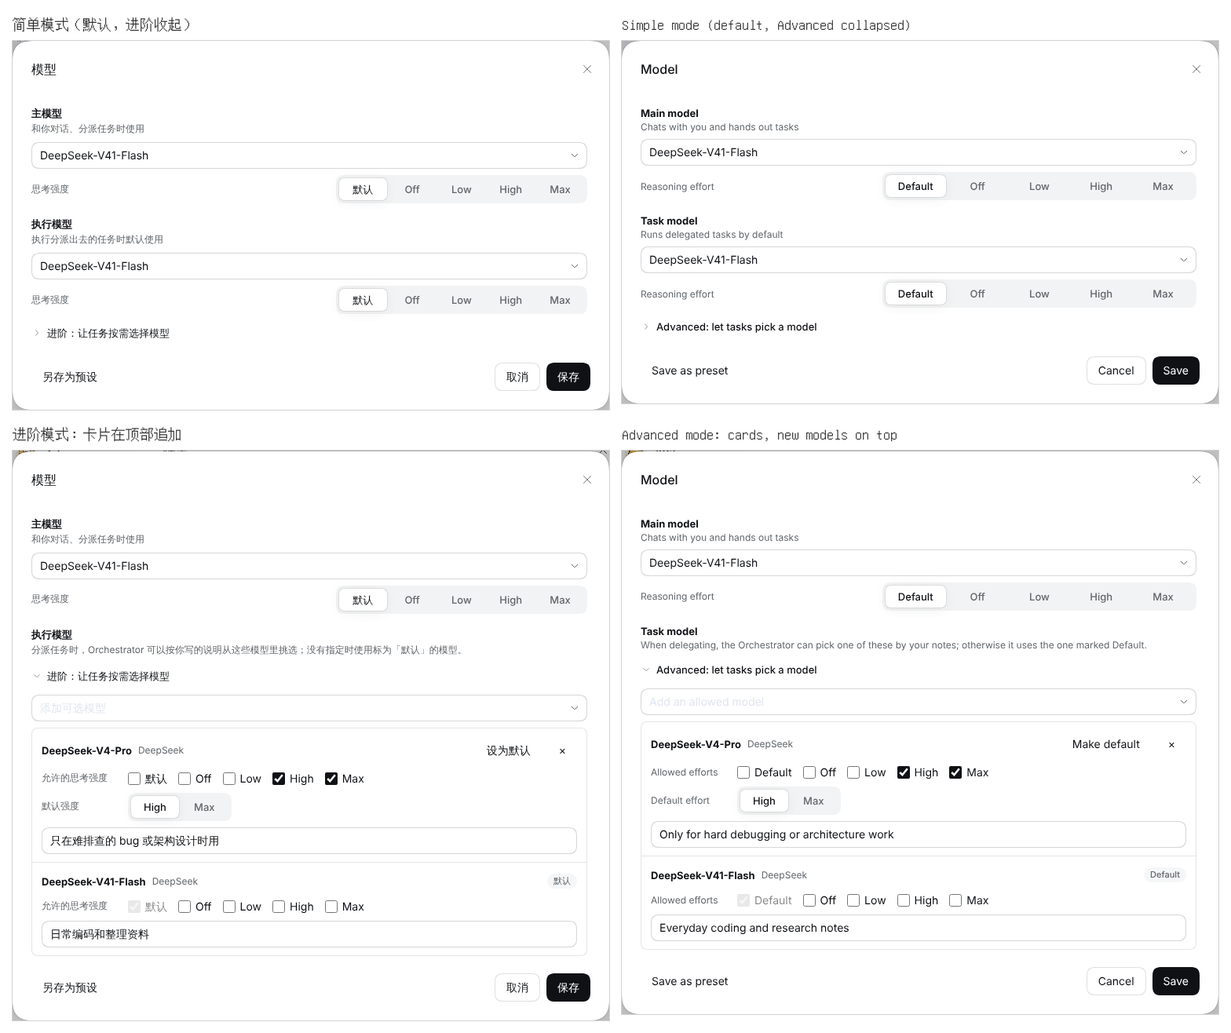
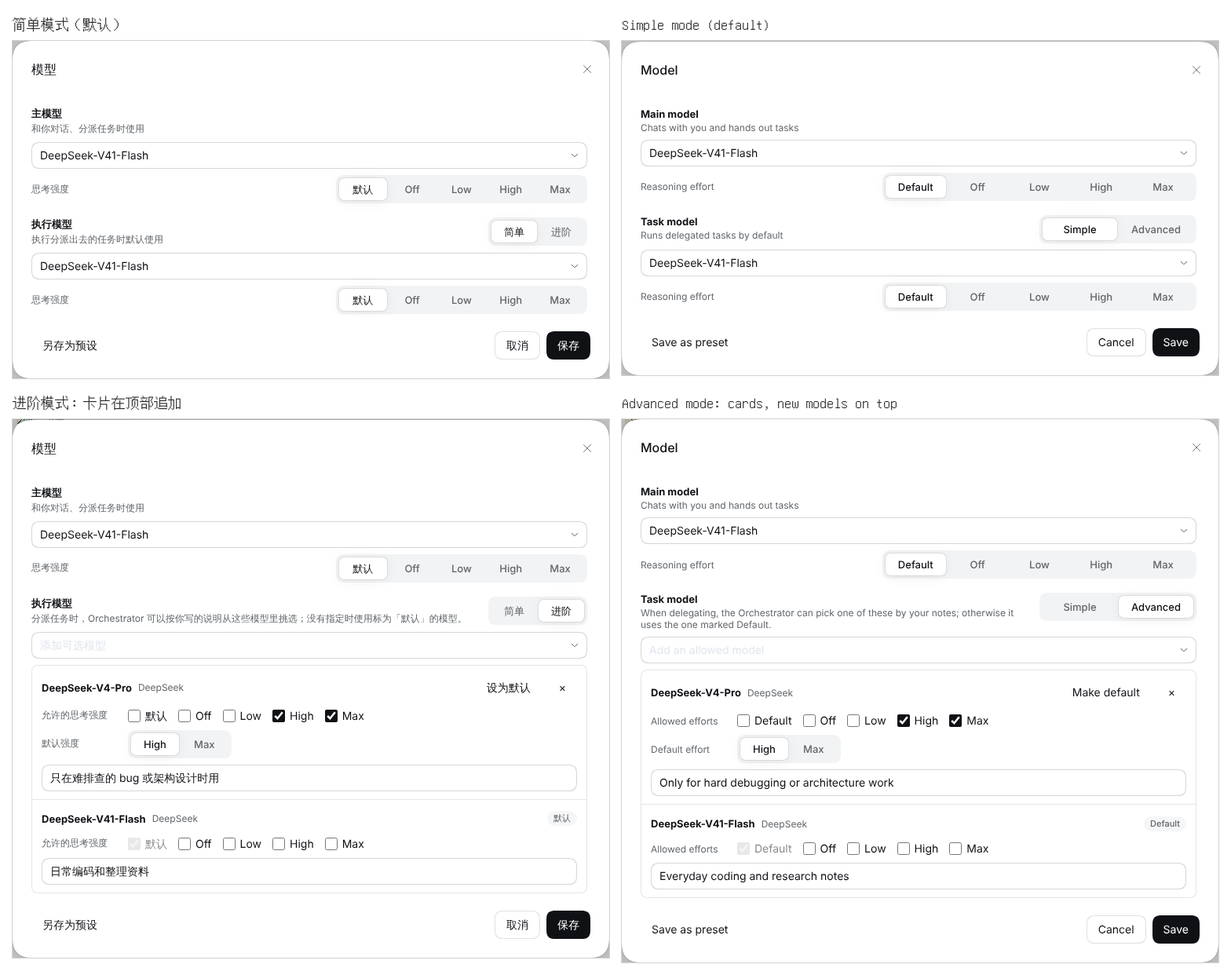
Switch task model modes with an explicit Simple/Advanced control
A collapsible header hid the mode change. A segmented Simple/Advanced
switch beside the Task model heading now makes it explicit, and the
content that replaces the other mode fades in.

Claude-Session: https://claude.ai/code/session_0152zfVCAc6MNB8R8xVq9b76

diff --git a/packages/client/src/client/model-preset-profile.tsx b/packages/client/src/client/model-preset-profile.tsx
@@ -2,7 +2,6 @@ import { useRef, useState, type ReactElement } from 'react';
 import {
   Button,
   Checkbox,
-  IconChevronDownOutlineRegular,
   Input,
   SegmentedControl,
   Tag,
@@ -176,6 +175,7 @@ export function ModelPresetProfile({
   const [busy, setBusy] = useState(false);
   const [error, setError] = useState<string>();
   const [editorOpen, setEditorOpen] = useState(false);
+  const [modeSwitched, setModeSwitched] = useState(false);
 
   const acceptPlan = (
     current: ModelPlanView | undefined,
@@ -268,6 +268,7 @@ export function ModelPresetProfile({
     setDraft(undefined);
     setPresetName(undefined);
     setError(undefined);
+    setModeSwitched(false);
     setEditorOpen(true);
     void load();
   };
@@ -507,13 +508,44 @@ export function ModelPresetProfile({
     );
   };
 
+  const modeControl =
+    draft === undefined ? null : (
+      <SegmentedControl
+        id="bh-model-task-mode"
+        value={draft.advanced ? 'advanced' : 'simple'}
+        options={[
+          { value: 'simple', label: t('modelPreset.modeSimple') },
+          { value: 'advanced', label: t('modelPreset.modeAdvanced') },
+        ]}
+        onChange={(mode) => {
+          setModeSwitched(true);
+          setDraft((current) =>
+            current === undefined || current.advanced === (mode === 'advanced')
+              ? current
+              : current.advanced
+                ? { ...withAdvanced(current, false), presetId: '' }
+                : withAdvanced(current, true),
+          );
+        }}
+        label={t('modelPreset.mode')}
+        disabled={busy}
+      />
+    );
+
   const taskEditor =
     draft === undefined || catalog === undefined ? null : (
-      <section className="bh-model-task" aria-label={t('modelPreset.assignment')}>
+      <section
+        className="bh-model-task"
+        aria-label={t('modelPreset.assignment')}
+        data-mode-switched={modeSwitched || undefined}
+      >
         {draft.advanced ? (
-          <div className="bh-model-picker-heading">
-            <strong>{t('modelPreset.assignment')}</strong>
-            <span>{t('modelPreset.allowedHint')}</span>
+          <div className="bh-model-picker-heading-row">
+            <div className="bh-model-picker-heading">
+              <strong>{t('modelPreset.assignment')}</strong>
+              <span>{t('modelPreset.allowedHint')}</span>
+            </div>
+            {modeControl}
           </div>
         ) : (
           <ModelPicker
@@ -532,32 +564,10 @@ export function ModelPresetProfile({
               })
             }
             disabled={busy}
+            action={modeControl}
             t={t}
           />
         )}
-        <button
-          type="button"
-          className="bh-channel-sidebar-entry-head bh-model-mode-toggle"
-          aria-expanded={draft.advanced}
-          disabled={busy}
-          onClick={() =>
-            setDraft((current) =>
-              current === undefined
-                ? current
-                : current.advanced
-                  ? { ...withAdvanced(current, false), presetId: '' }
-                  : withAdvanced(current, true),
-            )
-          }
-        >
-          <span
-            className={`bh-channel-sidebar-entry-chevron${draft.advanced ? '' : ' bh-chevron-collapsed'}`}
-            aria-hidden="true"
-          >
-            <IconChevronDownOutlineRegular size={14} />
-          </span>
-          <span className="bh-channel-sidebar-entry-label">{t('modelPreset.advanced')}</span>
-        </button>
         {draft.advanced && (
           <div className="bh-model-allowed">
             <Combobox

diff --git a/packages/client/test/model-preset-profile.test.ts b/packages/client/test/model-preset-profile.test.ts
@@ -456,7 +456,7 @@ describe('Model entry', () => {
       applyModelPreset,
     } as unknown as BridgeActions);
     await openEditor(host);
-    await act(async () => button('Advanced: let tasks pick a model').click());
+    await act(async () => button('Advanced').click());
     await choose('Add an allowed model', 'kimi', 'Kimi K2');
     expect(document.querySelector('.bh-model-cards')?.textContent).toContain('Kimi K2');
     await act(async () => button('Save as preset').click());
@@ -497,11 +497,14 @@ describe('Model entry', () => {
       setModelPlan,
     } as unknown as BridgeActions);
     await openEditor(host);
-    const toggle = button('Advanced: let tasks pick a model');
-    expect(toggle.getAttribute('aria-expanded')).toBe('false');
+    const mode = (name: string) =>
+      document.querySelector<HTMLButtonElement>(
+        `[aria-label="Task model mode"] [role="tab"]:${name === 'Simple' ? 'first' : 'last'}-child`,
+      )!;
+    expect(mode('Simple').getAttribute('aria-selected')).toBe('true');
     expect(combobox('Task model').value).toBe('Pro');
-    await act(async () => toggle.click());
-    expect(toggle.getAttribute('aria-expanded')).toBe('true');
+    await act(async () => mode('Advanced').click());
+    expect(mode('Advanced').getAttribute('aria-selected')).toBe('true');
     expect(document.querySelector('input[role="combobox"][aria-label="Task model"]')).toBeNull();
 
     await choose('Add an allowed model', 'kimi', 'Kimi K2');
@@ -601,10 +604,9 @@ describe('Model entry', () => {
       setModelPlan,
     } as unknown as BridgeActions);
     await openEditor(host);
-    const toggle = button('Advanced: let tasks pick a model');
-    expect(toggle.getAttribute('aria-expanded')).toBe('true');
+    expect(button('Advanced').getAttribute('aria-selected')).toBe('true');
     expect(document.querySelectorAll('li.bh-model-card')).toHaveLength(2);
-    await act(async () => toggle.click());
+    await act(async () => button('Simple').click());
     expect(document.querySelector('li.bh-model-card')).toBeNull();
     expect(combobox('Task model').value).toBe('Flash');
     await act(async () => button('Save').click());

diff --git a/packages/client/src/client/model-picker.tsx b/packages/client/src/client/model-picker.tsx
@@ -1,4 +1,4 @@
-import { useId, type ReactElement } from 'react';
+import { useId, type ReactElement, type ReactNode } from 'react';
 import { SegmentedControl } from '@deepseek-ai/dsh-client-ui-primitives';
 import type { ModelCatalogEntryView } from './bridge.js';
 import { Combobox, type ComboboxOption } from './combobox.js';
@@ -17,6 +17,7 @@ export function ModelPicker({
   options,
   onChange,
   disabled,
+  action,
   t,
 }: {
   title: string;
@@ -26,6 +27,7 @@ export function ModelPicker({
   options: readonly ComboboxOption[];
   onChange: (choice: ModelChoice) => void;
   disabled: boolean;
+  action?: ReactNode;
   t: BotHarnessTranslate;
 }): ReactElement {
   const id = useId();
@@ -34,12 +36,22 @@ export function ModelPicker({
     { value: '', label: t('modelPreset.providerDefault') },
     ...(entry?.efforts ?? []).map((effort) => ({ value: effort.id, label: effort.name })),
   ];
+  const heading = (
+    <div className="bh-model-picker-heading">
+      <strong>{title}</strong>
+      <span>{hint}</span>
+    </div>
+  );
   return (
     <div className="bh-model-picker">
-      <div className="bh-model-picker-heading">
-        <strong>{title}</strong>
-        <span>{hint}</span>
-      </div>
+      {action === undefined ? (
+        heading
+      ) : (
+        <div className="bh-model-picker-heading-row">
+          {heading}
+          {action}
+        </div>
+      )}
       <Combobox
         value={entry === undefined ? '' : choice.key}
         options={options}

diff --git a/packages/client/src/client/locale.ts b/packages/client/src/client/locale.ts
@@ -1727,7 +1727,9 @@ export const zh = {
   'modelPreset.allowedTitle': '可选的执行模型',
   'modelPreset.allowedHint':
     '分派任务时，Orchestrator 可以按你写的说明从这些模型里挑选；没有指定时使用标为「默认」的模型。',
-  'modelPreset.advanced': '进阶：让任务按需选择模型',
+  'modelPreset.mode': '执行模型模式',
+  'modelPreset.modeSimple': '简单',
+  'modelPreset.modeAdvanced': '进阶',
   'modelPreset.defaultModel': '默认',
   'modelPreset.makeDefault': '设为默认',
   'modelPreset.defaultEffort': '默认强度',
@@ -4922,7 +4924,9 @@ My relationship with you, established lore and topics to avoid: [fill in].
   'modelPreset.allowedTitle': 'Allowed task models',
   'modelPreset.allowedHint':
     'When delegating, the Orchestrator can pick one of these by your notes; otherwise it uses the one marked Default.',
-  'modelPreset.advanced': 'Advanced: let tasks pick a model',
+  'modelPreset.mode': 'Task model mode',
+  'modelPreset.modeSimple': 'Simple',
+  'modelPreset.modeAdvanced': 'Advanced',
   'modelPreset.defaultModel': 'Default',
   'modelPreset.makeDefault': 'Make default',
   'modelPreset.defaultEffort': 'Default effort',

diff --git a/packages/client/src/client/styles.ts b/packages/client/src/client/styles.ts
@@ -5087,16 +5087,33 @@ html[data-botharness-motion='reduce'] .bh-composer-footer {
   gap: 8px;
   min-width: 0;
 }
-.bh-model-mode-toggle {
+.bh-model-picker-heading-row {
+  display: flex;
+  align-items: flex-start;
+  justify-content: space-between;
+  gap: 12px;
+  min-width: 0;
+}
+.bh-model-picker-heading-row > .bh-model-picker-heading {
+  flex: 1;
+  min-width: 0;
+}
+.bh-model-picker-heading-row > :last-child {
   flex: none;
-  margin: 0 -8px;
-  font-weight: 500;
 }
-.bh-model-mode-toggle > .bh-channel-sidebar-entry-label {
-  font-size: 13px;
+.bh-model-task[data-mode-switched='true'] > .bh-model-allowed,
+.bh-model-task[data-mode-switched='true'] > .bh-model-picker > :not(.bh-model-picker-heading-row) {
+  animation: bh-model-mode-enter 180ms var(--ds-ease-in-out);
 }
-.bh-model-mode-toggle:disabled {
-  cursor: default;
+@keyframes bh-model-mode-enter {
+  from {
+    opacity: 0;
+    transform: translateY(-4px);
+  }
+}
+html[data-botharness-motion='reduce'] .bh-model-task > .bh-model-allowed,
+html[data-botharness-motion='reduce'] .bh-model-task > .bh-model-picker > * {
+  animation: none;
 }
 .bh-model-card {
   display: flex;

diff --git a/docs/model-setup.md b/docs/model-setup.md
@@ -42,13 +42,13 @@ This page configures one Bot. Global **Bot settings** contain appearance, sortin
 
 Pick models directly in the dialog; no preset is needed.
 
-| Field / action   | Purpose                                                                                                                                                                                                                                                                                                                                                                                                                                                              |
-| ---------------- | -------------------------------------------------------------------------------------------------------------------------------------------------------------------------------------------------------------------------------------------------------------------------------------------------------------------------------------------------------------------------------------------------------------------------------------------------------------------- |
-| Main model       | The Bot's model for receiving messages, coordinating work, and everyday conversation. Type to filter the list.                                                                                                                                                                                                                                                                                                                                                       |
-| Task model       | The default for delegated tasks when no other model is chosen.                                                                                                                                                                                                                                                                                                                                                                                                       |
-| Reasoning effort | An effort supported by the selected model. **Default** leaves it unspecified. Models may offer different options.                                                                                                                                                                                                                                                                                                                                                    |
-| Advanced         | Collapsed by default, so the task model is one model and one effort. Expanding it replaces that picker with a list of model cards: add models at the top, tick the efforts each allows, choose its default effort, mark one card as the default and write an optional note on when to use each model. Collapsing it returns to the single model. The Orchestrator reads the notes when it picks a model for a new task, so it can use a cheaper model where it fits. |
-| Save             | Save these settings for this Bot. They apply from the next turn.                                                                                                                                                                                                                                                                                                                                                                                                     |
+| Field / action   | Purpose                                                                                                                                                                                                                                                                                                                                                                                                                                                                                                    |
+| ---------------- | ---------------------------------------------------------------------------------------------------------------------------------------------------------------------------------------------------------------------------------------------------------------------------------------------------------------------------------------------------------------------------------------------------------------------------------------------------------------------------------------------------------- |
+| Main model       | The Bot's model for receiving messages, coordinating work, and everyday conversation. Type to filter the list.                                                                                                                                                                                                                                                                                                                                                                                             |
+| Task model       | The default for delegated tasks when no other model is chosen.                                                                                                                                                                                                                                                                                                                                                                                                                                             |
+| Reasoning effort | An effort supported by the selected model. **Default** leaves it unspecified. Models may offer different options.                                                                                                                                                                                                                                                                                                                                                                                          |
+| Advanced         | The **Simple / Advanced** switch beside **Task model**. Simple, the default, is one model and one effort. Advanced replaces that picker with a list of model cards: add models at the top, tick the efforts each allows, choose its default effort, mark one card as the default and write an optional note on when to use each model. Switching back to Simple saves one model again. The Orchestrator reads the notes when it picks a model for a new task, so it can use a cheaper model where it fits. |
+| Save             | Save these settings for this Bot. They apply from the next turn.                                                                                                                                                                                                                                                                                                                                                                                                                                           |
 
 ![The Model dialog opened from the sidebar](/guides/channel-sidebar/15-model-dialog-zh.webp)
 

diff --git a/docs/model-setup.zh.md b/docs/model-setup.zh.md
@@ -42,13 +42,13 @@
 
 在弹窗里直接选择模型，不需要先建预设。
 
-| 参数     | 用途                                                                                                                                                                                                                                                                                           |
-| -------- | ---------------------------------------------------------------------------------------------------------------------------------------------------------------------------------------------------------------------------------------------------------------------------------------------- |
-| 主模型   | Bot 接收消息、协调工作和日常对话所用的模型。输入关键词可过滤列表。                                                                                                                                                                                                                             |
-| 执行模型 | Bot 分派出去的任务未另选模型时使用的默认项。                                                                                                                                                                                                                                                   |
-| 思考强度 | 模型支持的推理档位，选项来自对应模型。选「默认」不强制指定档位。不同模型不一定有相同选项。                                                                                                                                                                                                     |
-| 进阶     | 默认收起，此时执行模型只选一个模型和一种思考强度。展开后改用模型卡片列表代替这个选择：在顶部添加模型，勾选每个模型允许的思考强度和默认强度，把其中一张设为默认，并可为每个模型写一段使用说明。收起即回到单一模型。Orchestrator 分派新任务时会参考这些说明选择模型，合适时用更省 token 的模型。 |
-| 保存     | 为当前 Bot 保存这组设置，从之后的回合生效。                                                                                                                                                                                                                                                    |
+| 参数     | 用途                                                                                                                                                                                                                                                                                                                                       |
+| -------- | ------------------------------------------------------------------------------------------------------------------------------------------------------------------------------------------------------------------------------------------------------------------------------------------------------------------------------------------ |
+| 主模型   | Bot 接收消息、协调工作和日常对话所用的模型。输入关键词可过滤列表。                                                                                                                                                                                                                                                                         |
+| 执行模型 | Bot 分派出去的任务未另选模型时使用的默认项。                                                                                                                                                                                                                                                                                               |
+| 思考强度 | 模型支持的推理档位，选项来自对应模型。选「默认」不强制指定档位。不同模型不一定有相同选项。                                                                                                                                                                                                                                                 |
+| 进阶     | **执行模型** 旁的 **简单 / 进阶** 切换。默认是简单模式，只选一个模型和一种思考强度。切到进阶后改用模型卡片列表代替这个选择：在顶部添加模型，勾选每个模型允许的思考强度和默认强度，把其中一张设为默认，并可为每个模型写一段使用说明。切回简单即只保存一个模型。Orchestrator 分派新任务时会参考这些说明选择模型，合适时用更省 token 的模型。 |
+| 保存     | 为当前 Bot 保存这组设置，从之后的回合生效。                                                                                                                                                                                                                                                                                                |
 
 ![从侧栏打开的模型弹窗](/guides/channel-sidebar/15-model-dialog-zh.webp)
 

diff --git a/docs/channel-sidebar/model.md b/docs/channel-sidebar/model.md
@@ -18,7 +18,7 @@ Click either card to open the **Model** dialog:
 ![The Model dialog opened from the sidebar](/guides/channel-sidebar/15-model-dialog-zh.webp)
 
 1. Type in **Main model** or **Task model** to filter the list, then pick a model. When the model supports reasoning effort, choose **Default** or a level below it.
-2. To let tasks pick other models, expand **Advanced: let tasks pick a model**. The single task model picker gives way to model cards: add models at the top, tick the efforts each may use and use **Make default** on the card new tasks should start with. Optionally write when to use each model, for example “quick lookups and small edits”; the Orchestrator follows these notes when it starts a task.
+2. To let tasks pick other models, switch **Task model** from **Simple** to **Advanced**. The single task model picker gives way to model cards: add models at the top, tick the efforts each may use and use **Make default** on the card new tasks should start with. Optionally write when to use each model, for example “quick lookups and small edits”; the Orchestrator follows these notes when it starts a task.
 3. Click **Save**. The change applies to later turns; a task keeps the model it was created with.
 
 Presets are optional. When you have saved presets, **Fill from a preset** at the top fills the dialog; changing anything afterwards unlinks it. To reuse the current settings later, click **Save as preset**, name it and save; this Bot then uses the new preset.

diff --git a/docs/channel-sidebar/model.zh.md b/docs/channel-sidebar/model.zh.md
@@ -18,7 +18,7 @@
 ![从侧栏打开的模型弹窗](/guides/channel-sidebar/15-model-dialog-zh.webp)
 
 1. 在 **主模型** 和 **执行模型** 里输入关键词过滤模型列表，再点选；模型支持思考强度时，在下方选择 **默认** 或具体档位。
-2. 需要让任务另选模型时，展开 **进阶：让任务按需选择模型**。单一执行模型的选择会换成模型卡片：在顶部添加模型，勾选允许的思考强度，并在新任务默认使用的卡片上点 **设为默认**。可以为每个模型写使用说明，例如「简单查找和小改动」；Orchestrator 开始任务时会按这些说明选择。
+2. 需要让任务另选模型时，把 **执行模型** 从 **简单** 切到 **进阶**。单一执行模型的选择会换成模型卡片：在顶部添加模型，勾选允许的思考强度，并在新任务默认使用的卡片上点 **设为默认**。可以为每个模型写使用说明，例如「简单查找和小改动」；Orchestrator 开始任务时会按这些说明选择。
 3. 点 **保存**。改动从之后的回合生效；已创建的任务继续使用创建时的模型。
 
 预设是可选的。有已保存的预设时，弹窗顶部可以 **从预设填入**；之后改动任何一项，就不再关联这个预设。想把当前设置留着以后复用，点 **另存为预设**，输入名称后保存，这个 Bot 会直接使用新预设。
